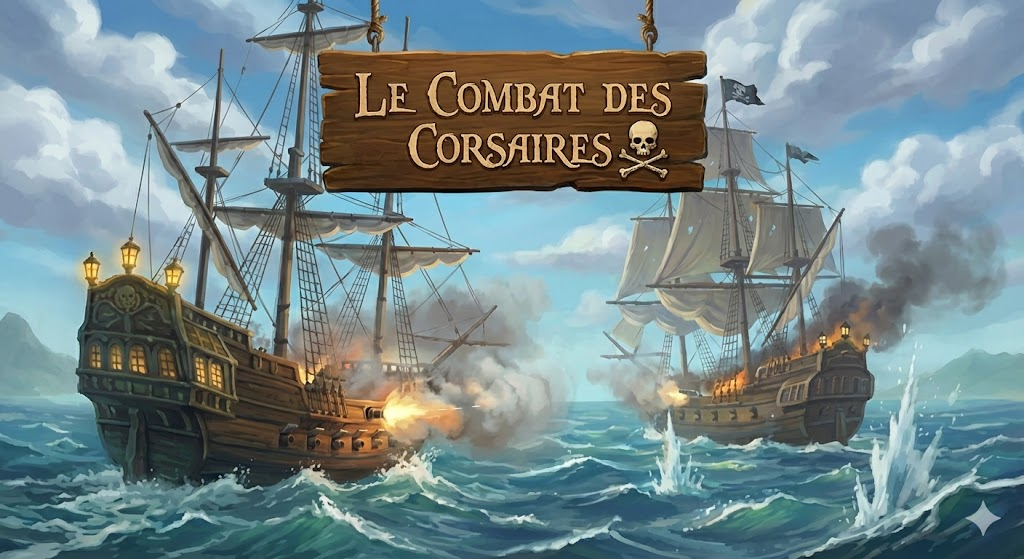
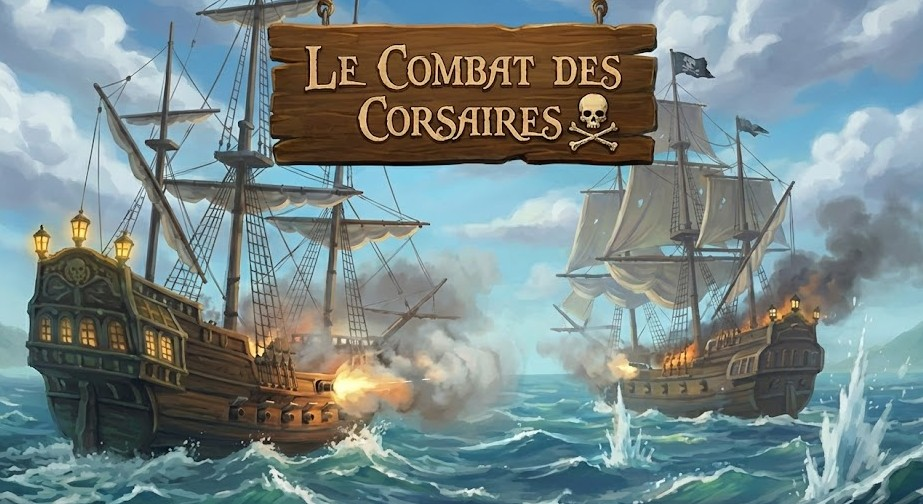
ecran acceuil

diff --git a/LeCombatDesCorsaires/MainWindow.xaml b/LeCombatDesCorsaires/MainWindow.xaml
@@ -7,7 +7,8 @@
         mc:Ignorable="d"
         Title="MainWindow" Height="450" Width="800">
     <Grid>
-        <Image Source="/Images/Ecran Acceuil.jpg" Stretch="Fill"/>
+        <Button Content="Démarrer" HorizontalAlignment="Left" Margin="201,239,0,0" VerticalAlignment="Top" Click="Button_Click"/>
+        <Image Margin="0,-3,0,0" Source="/Images/Ecran Acceuil.jpg" Stretch="Fill"/>
 
     </Grid>
 </Window>

diff --git a/LeCombatDesCorsaires/MainWindow.xaml.cs b/LeCombatDesCorsaires/MainWindow.xaml.cs
@@ -20,5 +20,10 @@ namespace LeCombatDesCorsaires
         {
             InitializeComponent();
         }
+
+        private void Button_Click(object sender, RoutedEventArgs e)
+        {
+
+        }
     }
 }
